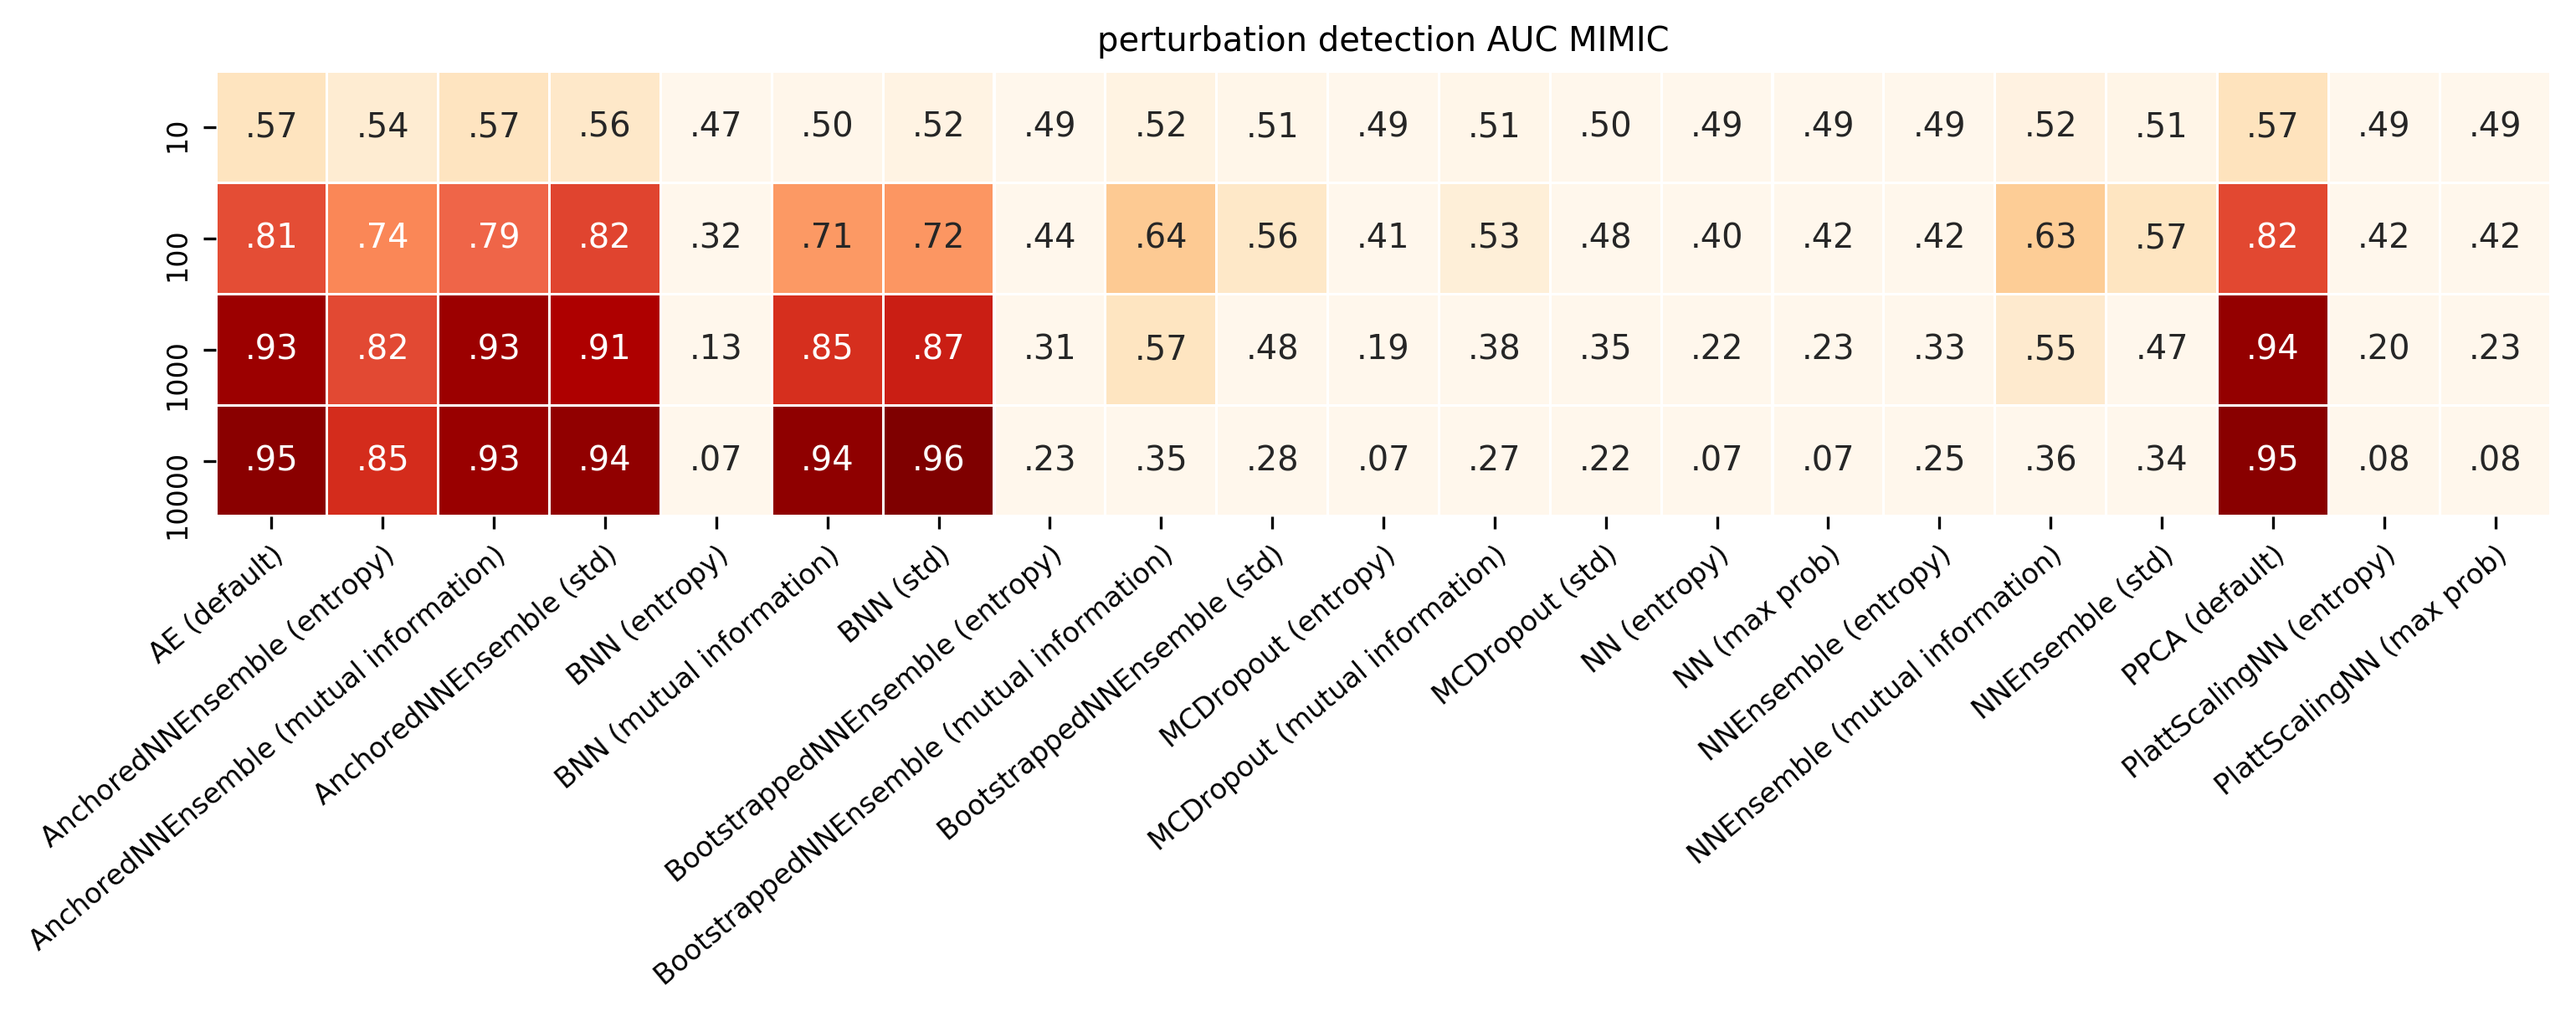
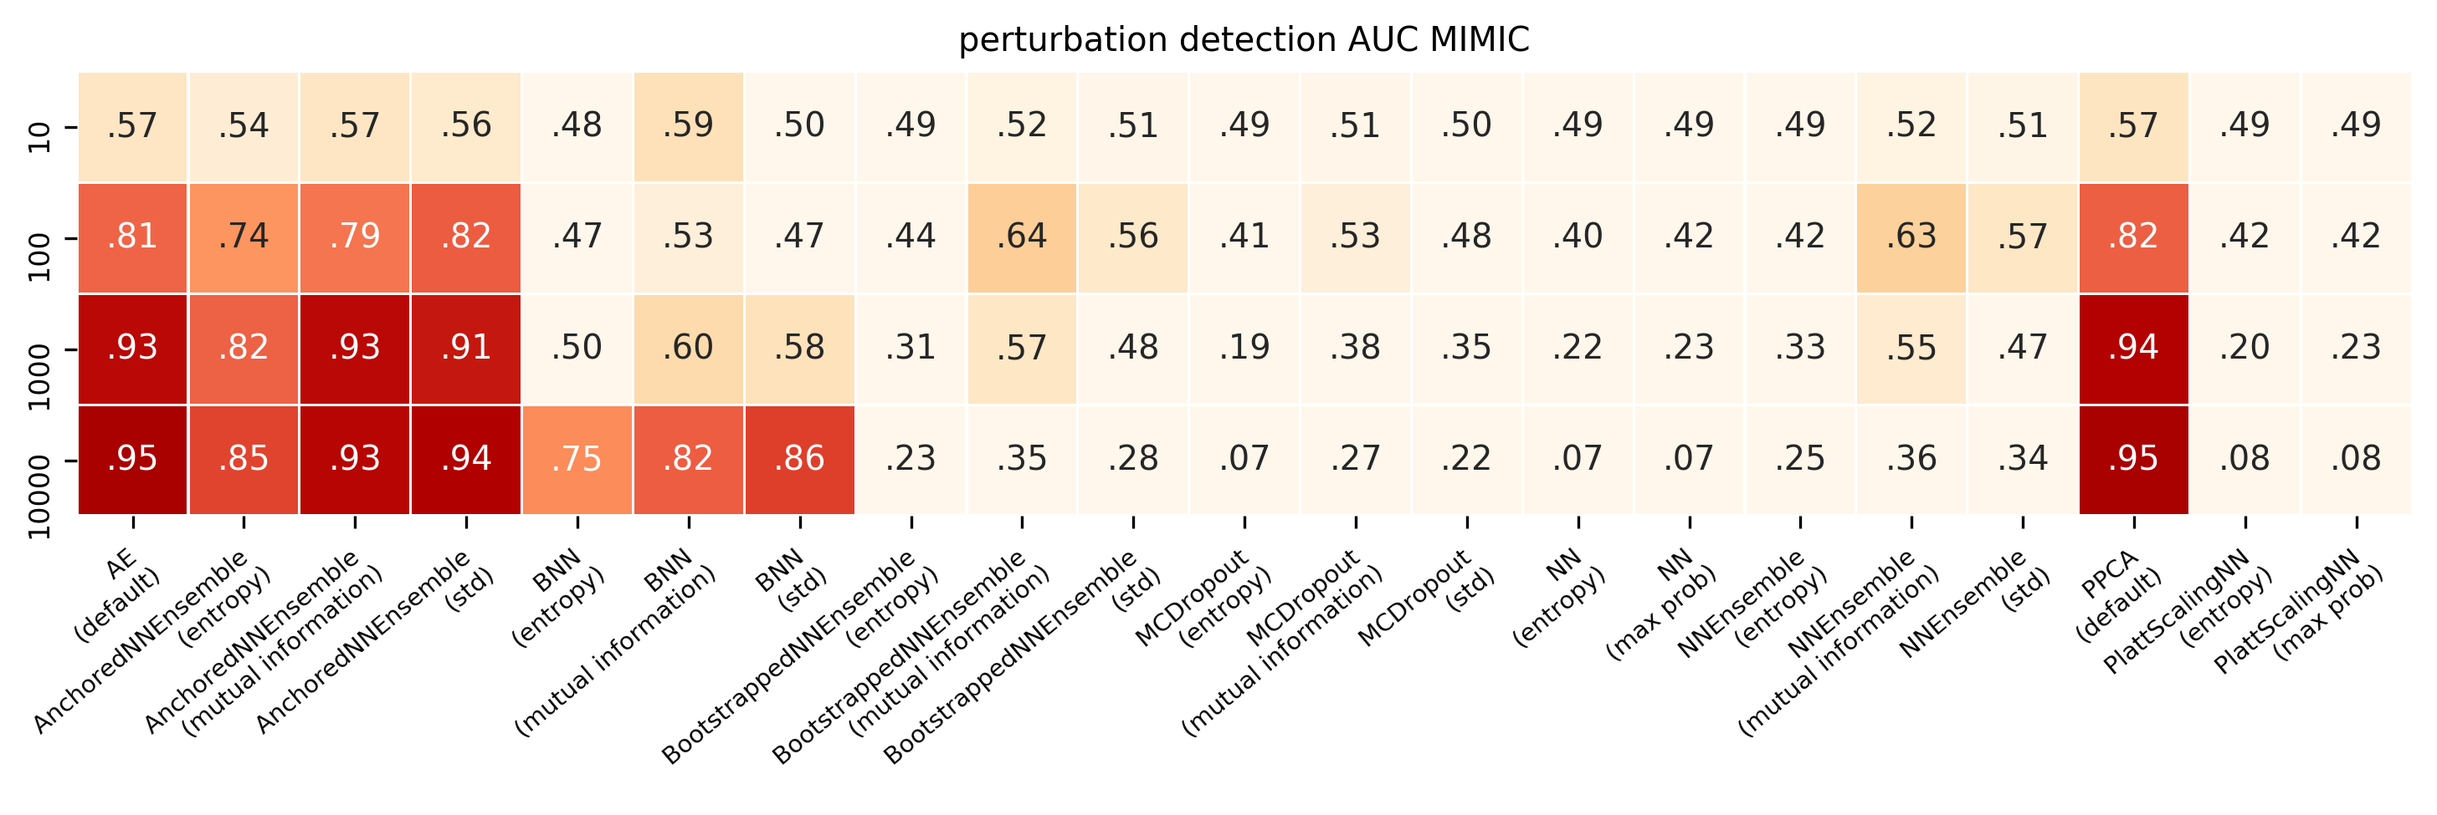
:construction: Actually commit GP code

diff --git a/uncertainty_estimation/models/info.py b/uncertainty_estimation/models/info.py
@@ -10,14 +10,21 @@ import math
 import numpy as np
 from sklearn.utils.fixes import loguniform
 from scipy.stats import uniform
+from GPy.kern import RBF, Exponential, Linear
 
 # ### Models and novelty scoring functions ###
 
-BASELINES = {
+DENSITY_BASELINES = {
     "PPCA",  # Probabilistic PCA for density estimation
     "AE",  # Auto-Encoder for implicit density estimation
+}
+
+DISCRIMINATOR_BASELINES = {
+    "LogReg",  # Logistic Regression
+    "GP",  # Gaussian Process
     # "SVM",  # One-class SVM for outlier detection
 }
+
 
 SINGLE_PRED_NN_MODELS = {
     "NN",  # Single neural discriminator
@@ -42,7 +49,7 @@ NO_ENSEMBLE_NN_MODELS = (
 MULTIPLE_PRED_NN_MODELS = SINGLE_INST_MULTIPLE_PRED_NN_MODELS | ENSEMBLE_MODELS
 
 SINGLE_PRED_MODELS = (
-    BASELINES | SINGLE_PRED_NN_MODELS
+    DENSITY_BASELINES | SINGLE_PRED_NN_MODELS
 )  # All models only making a single prediction
 
 NEURAL_PREDICTORS = (
@@ -50,7 +57,9 @@ NEURAL_PREDICTORS = (
 )  # All neural network-based discriminators
 
 NEURAL_MODELS = NEURAL_PREDICTORS | {"AE"}  # All neural models
-AVAILABLE_MODELS = NEURAL_MODELS | BASELINES  # All available models in this project
+AVAILABLE_MODELS = (
+    NEURAL_MODELS | DENSITY_BASELINES | DISCRIMINATOR_BASELINES
+)  # All available models in this project
 
 # Available novelty scoring functions for models
 
@@ -58,7 +67,9 @@ AVAILABLE_SCORING_FUNCS = {
     "PPCA": ("default",),  # Default: log-prob
     "AE": ("default",),  # Default: Reconstruction error
     "SVM": ("default",),  # Default: Distance to decision boundary
-    "NN": ("entropy", "max_prob"),  # Default: entropy
+    "LogReg": ("entropy", "max_prob"),
+    "GP": ("entropy", "var"),
+    "NN": ("entropy", "max_prob"),
     "PlattScalingNN": ("entropy", "max_prob"),
     "MCDropout": ("entropy", "std", "mutual_information"),
     "BNN": ("entropy", "std", "mutual_information"),
@@ -76,6 +87,11 @@ MODEL_PARAMS = {
         "eICU": {"hidden_sizes": [100], "latent_dim": 15, "lr": 0.005216},
     },
     "SVM": {},
+    "LogReg": {"MIMIC": {"C": 10}, "eICU": {"C": 1000}},
+    "GP": {
+        "MIMIC": {"input_size": 588, "N_limit": 8000, "kernel": "RBF"},
+        "eICU": {"input_size": 588, "N_limit": 50, "kernel": "RBF"},  # TODO: Debug
+    },
     "NN": {
         "MIMIC": {
             "dropout_rate": 0.157483,
@@ -212,6 +228,8 @@ TRAIN_PARAMS = {
     "PPCA": {},
     "AE": {"n_epochs": 10, "batch_size": 64},
     "SVM": {},
+    "GP": {},
+    "LogReg": {},
     "NN": {
         "batch_size": 256,
         "early_stopping": True,
@@ -267,7 +285,10 @@ PARAM_SEARCH = {
     "latent_dim": [5, 10, 15, 20],
     "batch_size": [64, 128, 256],
     "lr": loguniform(1e-4, 0.1),
-    # Invervals become [loc, loc + scale] for uniform
+    # Intervals become [loc, loc + scale] for uniform
+    "C": [10 ** i for i in range(0, 5)],
+    #  Regularization for logistic regression baseline
+    "kernel": ["RBF", "Linear"],
     "dropout_rate": uniform(loc=0, scale=0.5),  # [0, 0.5]
     "posterior_rho_init": uniform(loc=-8, scale=6),  # [-8, -2]
     "posterior_mu_init": uniform(loc=-0.6, scale=1.2),  # [-0.6, 0.6]
@@ -275,7 +296,15 @@ PARAM_SEARCH = {
     "prior_sigma_1": [np.exp(d) for d in np.arange(-0.8, 0, 0.1)],
     "prior_sigma_2": [np.exp(d) for d in np.arange(-0.8, 0, 0.1)],
 }
-NUM_EVALS = {"AE": 40, "NN": 40, "MCDropout": 40, "BNN": 100, "PPCA": 30}
+NUM_EVALS = {
+    "AE": 40,
+    "NN": 40,
+    "MCDropout": 40,
+    "BNN": 100,
+    "PPCA": 30,
+    "LogReg": 5,
+    "GP": 3,
+}
 
 
 # Default training hyperparameters

diff --git a/uncertainty_estimation/models/gaussian_process.py b/uncertainty_estimation/models/gaussian_process.py
@@ -1,0 +1,100 @@
+"""
+Wrapper for the Gaussian Process scikit-learn class.
+"""
+
+# EXT
+import numpy as np
+from GPy.models import SparseGPClassification
+from GPy.kern import RBF, Matern32, Linear
+from sklearn.preprocessing import LabelBinarizer
+
+# CONST
+NAME2KERNEL = {"RBF": RBF, "Linear": Linear, "Matern": Matern32}
+
+
+class GaussianProcess:
+    """
+    Wrapper class that uses smaller floating point number in order to fit the NxN matrix used in Gaussian processes into
+    memory.
+    """
+
+    def __init__(
+        self, input_size, kernel, float_type: type = np.float16, N_limit: int = 8000
+    ):
+        self.kernel = kernel
+        self.float_type = float_type
+        self.N_limit = N_limit
+        self.model = None
+        self.input_size = input_size
+        self.kernel = NAME2KERNEL[kernel](self.input_size)
+
+    def predict(self, X_test: np.array) -> np.array:
+        """
+        Same as score_samples, purely implemented for consistency.
+
+        Parameters
+        ----------
+        X_test: np.array
+            Batch of samples as numpy array.
+
+        Returns
+        -------
+        np.array
+            Predictions for every sample.
+        """
+        X_test = X_test.astype(self.float_type)
+        preds = self.model.predict(X_test)
+
+        return preds[0]
+
+    def get_var(self, X_test: np.array) -> np.array:
+        """
+        Get the variance for a sample.
+
+        Parameters
+        ----------
+        X_test: np.array
+            Batch of samples as numpy array.
+
+        Returns
+        -------
+        np.array
+            Predictions for every sample.
+        """
+        X_test = X_test.astype(self.float_type)
+
+        return self.model.predict(X_test)[1]
+
+    def fit(self, X: np.array, y: np.array):
+        X = X.astype(self.float_type)
+
+        if X.shape[0] > self.N_limit:
+            indices = np.random.choice(np.arange(0, X.shape[0]), self.N_limit)
+            X, y = X[indices, :], y[indices]
+
+        # Create one-hot encodings
+        lb = LabelBinarizer()
+        lb.fit(range(2))
+        Y = lb.transform(y)
+
+        self.model = SparseGPClassification(X, Y, kernel=self.kernel)
+        self.model.optimize()
+
+    def predict_proba(self, X_test: np.array) -> np.array:
+        """
+        Predict the probabilities for a batch of samples.
+
+        Parameters
+        ----------
+        X_test: np.array
+            Batch of samples as numpy array.
+
+        Returns
+        -------
+        np.array
+            Predictions for every sample.
+        """
+        X_test = X_test.astype(self.float_type)
+        predictions = self.predict(X_test)
+
+        return np.stack([1 - predictions, predictions], axis=1)

diff --git a/uncertainty_estimation/models/novelty_estimator.py b/uncertainty_estimation/models/novelty_estimator.py
@@ -13,7 +13,8 @@ import numpy as np
 from uncertainty_estimation.utils.metrics import entropy, max_prob
 from uncertainty_estimation.models.info import (
     ENSEMBLE_MODELS,
-    BASELINES,
+    DENSITY_BASELINES,
+    DISCRIMINATOR_BASELINES,
     NEURAL_PREDICTORS,
     MULTIPLE_PRED_NN_MODELS,
     SINGLE_PRED_NN_MODELS,
@@ -61,9 +62,13 @@ class NoveltyEstimator:
             self.model = self.model_type(**self.model_params)
             self.model.train(X_train, **self.train_params)
 
-        elif self.name in BASELINES:
+        elif self.name in DENSITY_BASELINES:
             self.model = self.model_type(**self.model_params)
             self.model.fit(X_train)
+
+        elif self.name in self.name in DISCRIMINATOR_BASELINES:
+            self.model = self.model_type(**self.model_params)
+            self.model.fit(X_train, y_train)
 
         elif self.name in ENSEMBLE_MODELS:
             self.model = self.model_type(**self.model_params)
@@ -98,8 +103,11 @@ class NoveltyEstimator:
         if self.name == "AE":
             return self.model.get_reconstr_error(data)
 
-        elif self.name in BASELINES:
+        elif self.name in DENSITY_BASELINES:
             return -self.model.score_samples(data)
+
+        elif self.name == "GP" and scoring_func == "var":
+            return self.model.get_var(data)
 
         elif self.name in MULTIPLE_PRED_NN_MODELS:
             if scoring_func == "std":
@@ -114,7 +122,7 @@ class NoveltyEstimator:
             else:
                 raise ValueError(f"Unknown type of scoring function: {scoring_func}")
 
-        elif self.name in SINGLE_PRED_NN_MODELS:
+        elif self.name in SINGLE_PRED_NN_MODELS or self.name in DISCRIMINATOR_BASELINES:
 
             if scoring_func == "entropy":
                 return entropy(self.model.predict_proba(data), axis=1)

diff --git a/uncertainty_estimation/utils/model_init.py b/uncertainty_estimation/utils/model_init.py
@@ -5,11 +5,15 @@ Define how models for experiments are initialized.
 # STD
 from typing import Optional, Iterable, Dict, Tuple, List, Type
 
+# EXT
+from sklearn.linear_model import LogisticRegression
+
 # from sklearn.svm import OneClassSVM
 
 # PROJECT
 from uncertainty_estimation.models.nn_ensemble import NNEnsemble, AnchoredNNEnsemble
 from uncertainty_estimation.models.autoencoder import AE
+from uncertainty_estimation.models.gaussian_process import GaussianProcess
 from uncertainty_estimation.models.mlp import (
     MLP,
     BayesianMLP,
@@ -34,6 +38,8 @@ from uncertainty_estimation.utils.types import ModelInfo
 MODEL_CLASSES = {
     "PPCA": PPCA,
     # "SVM": OneClassSVM,
+    "LogReg": LogisticRegression,
+    "GP": GaussianProcess,
     "AE": AE,
     "NN": MLP,
     "PlattScalingNN": PlattScalingMLP,

diff --git a/uncertainty_estimation/visualizing/ood_plots.py b/uncertainty_estimation/visualizing/ood_plots.py
@@ -66,6 +66,10 @@ def plot_results_as_heatmap(
 
         df.index = new_indices
 
+    # Introduce linebreaks into to ticks to make figures more compact
+    # Also, BNN was changed post-hoc to BBB, didn't want to re-run experiments
+    df.columns = [col.replace("(", "\n(").replace("BNN", "BBB") for col in df.columns]
+
     df = df.sort_index()
     df = df.applymap(lambda l: np.array(l).mean())
     df = df.reindex(sorted(df.columns), axis=1)
@@ -85,8 +89,8 @@ def plot_results_as_heatmap(
         cmap="OrRd",
         cbar=False,
     )
-    plt.title(name)
-    plt.xticks(fontsize=8)
+    # plt.title(name)  # TODO: Re-add after generating paper plots
+    plt.xticks(fontsize=7)
     plt.yticks(fontsize=8)
     plt.setp(ax.get_xticklabels(), rotation=40, ha="right", rotation_mode="anchor")
 
